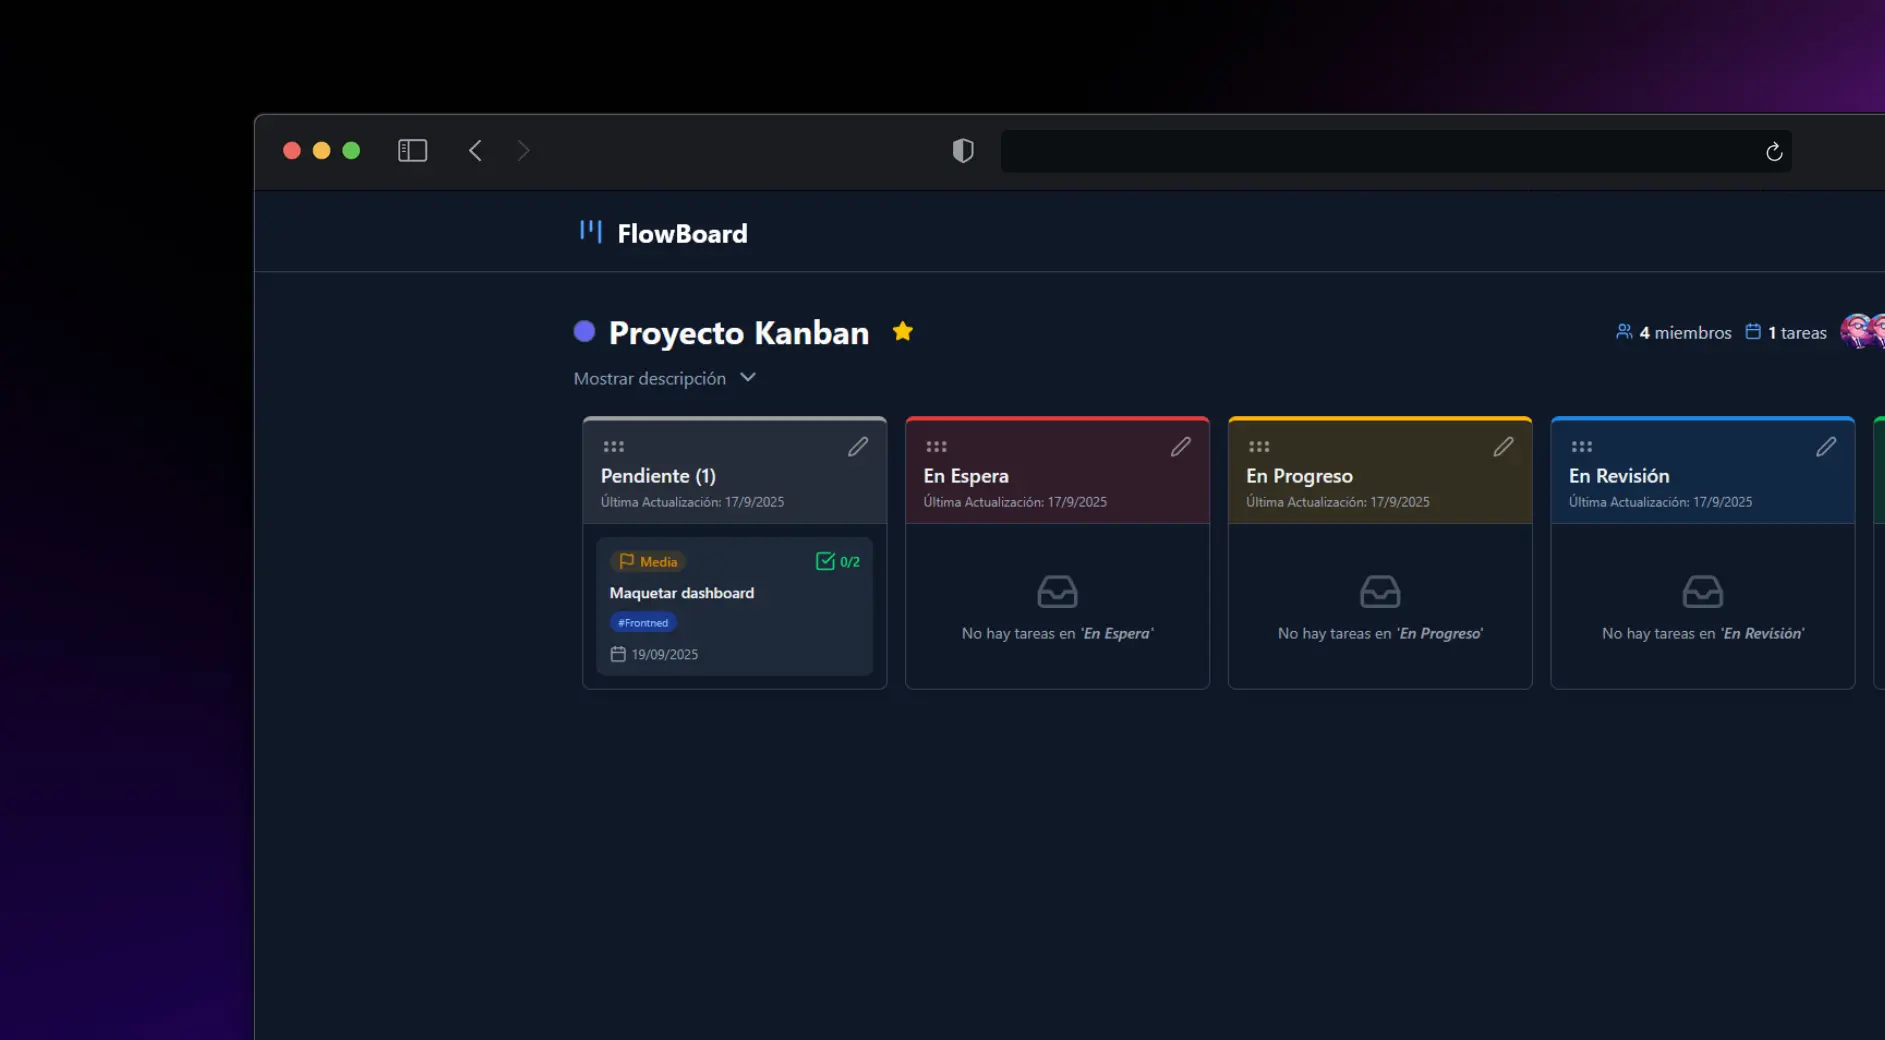
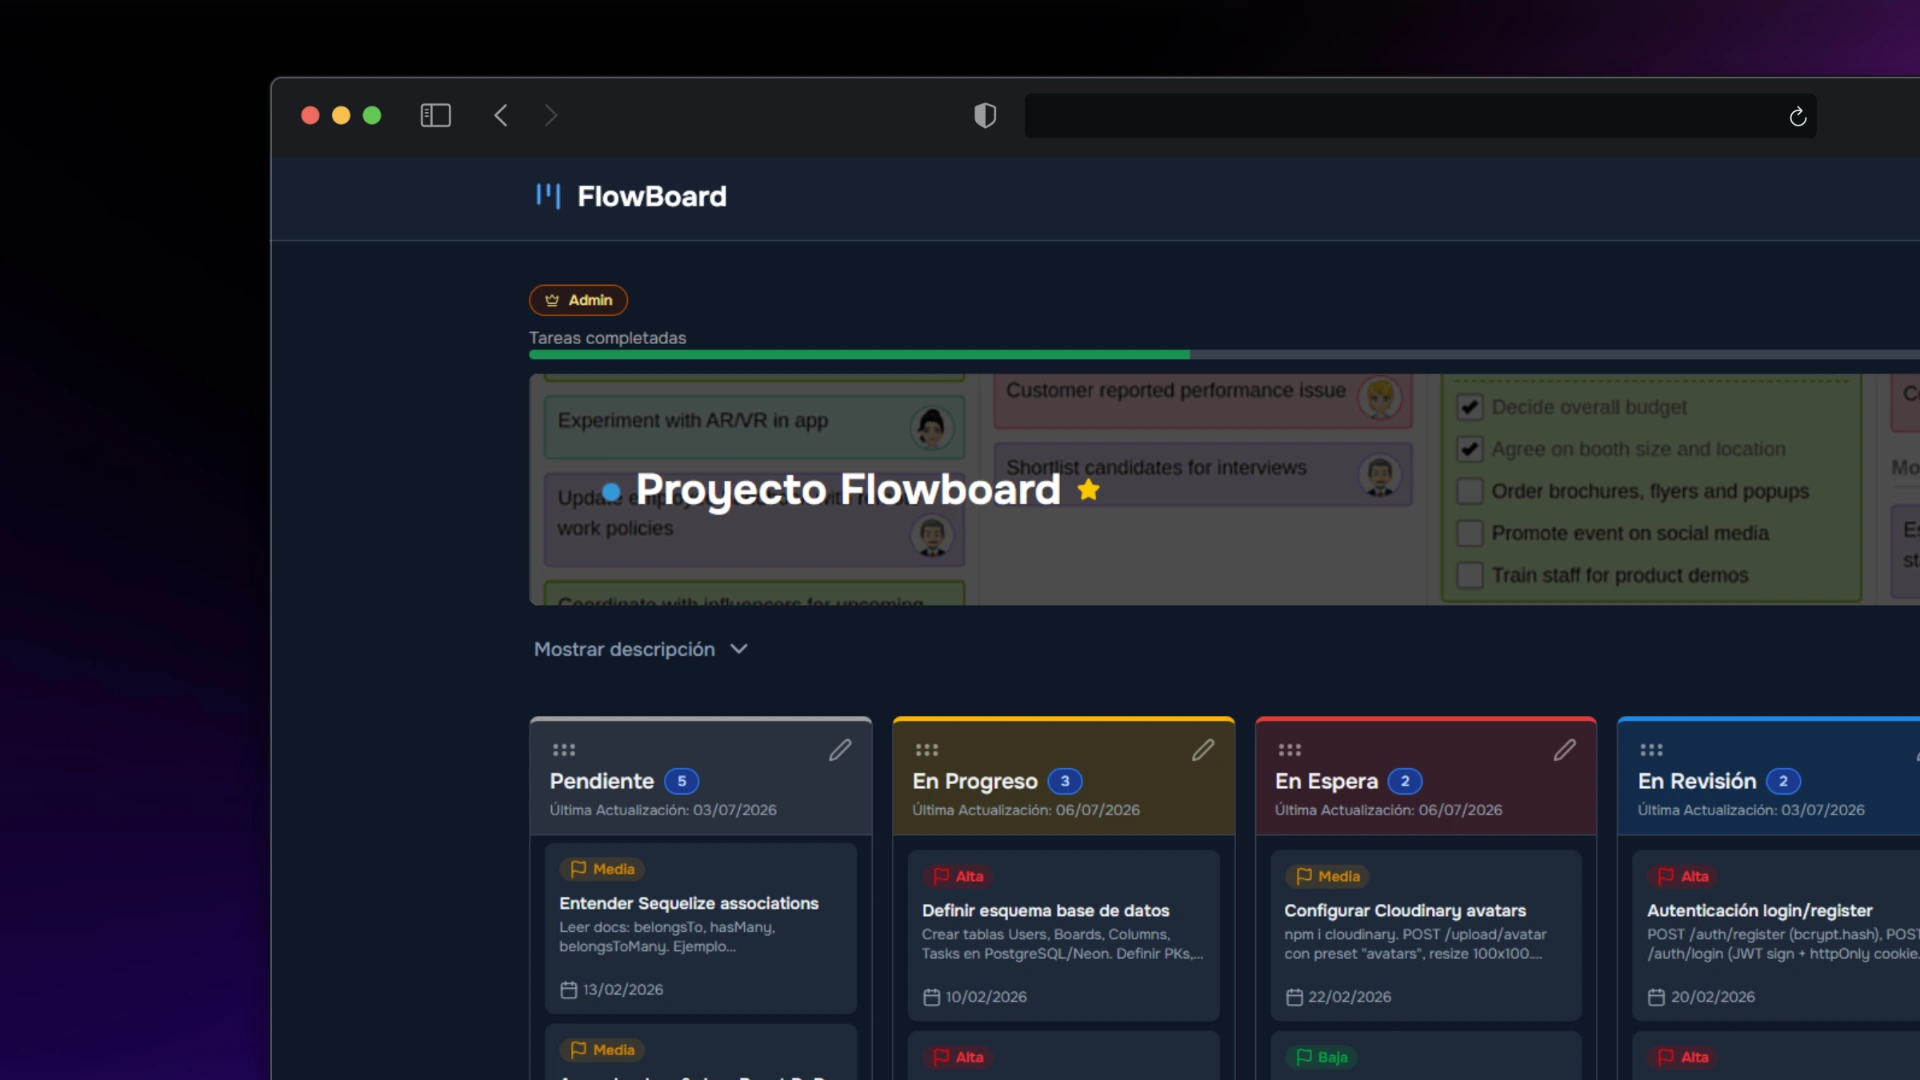
Modified Flowboard Project Image

diff --git a/src/components/Hero.tsx b/src/components/Hero.tsx
@@ -29,7 +29,7 @@ export default function Hero() {
         >
           <div className="flex items-center">
             <span className="relative inline-flex overflow-hidden rounded-full p-[1px]">
-              <span className="absolute inset-[-1000%] animate-[spin_2s_linear_infinite] bg-[conic-gradient(from_90deg_at_50%_50%,#3b82f6_0%,rgba(0,0,0,0.4)_40%,#3b82f6_100%)]"></span>
+              <span className="absolute inset-[-1000%] animate-[spin_3s_linear_infinite] bg-[conic-gradient(from_90deg_at_50%_50%,#3b82f6_0%,rgba(0,0,0,0.4)_40%,#3b82f6_100%)]"></span>
               <div className="inline-flex items-center justify-center w-full px-3 py-1 text-sm rounded-full cursor-pointer bg-gray-800 text-white/80 backdrop-blur-3xl whitespace-nowrap">
                 Disponible para trabajar
               </div>